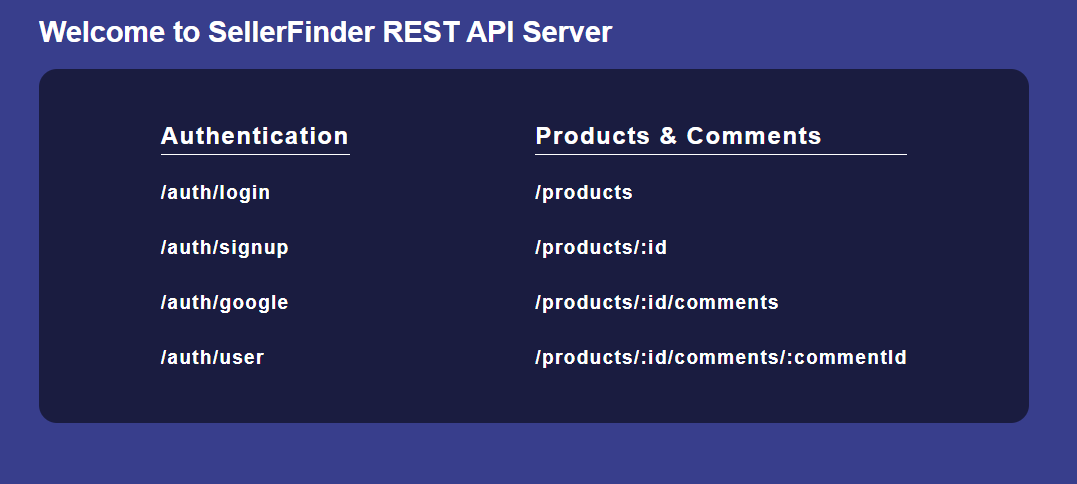
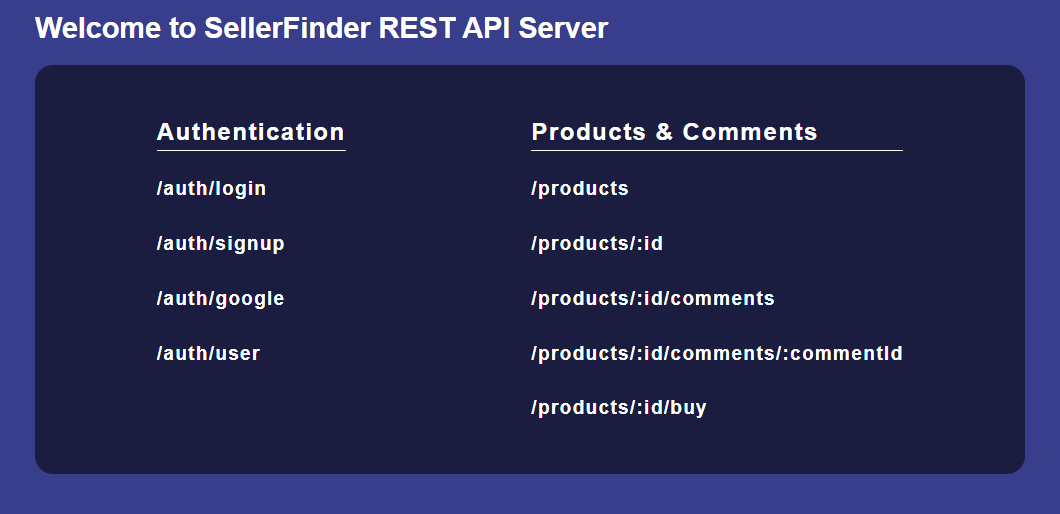
README

diff --git a/public/index.html b/public/index.html
@@ -24,6 +24,7 @@
           <h3>/products/:id</h3>
           <h3>/products/:id/comments</h3>
           <h3>/products/:id/comments/:commentId</h3>
+          <h3>/products/:id/buy</h3>
         </div>
       </div>
     </div>

diff --git a/README.md b/README.md
@@ -40,6 +40,7 @@ NestJs is a Node.js framework for building server-side applications, it is built
 - NodeJs.
 - MongoDB local service or Atlas cloud database service.
 - Google OAuth project registration.
+- Pagar.me registration.
 
 ## About Course and SellerFinder idea
 
